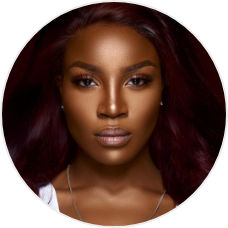
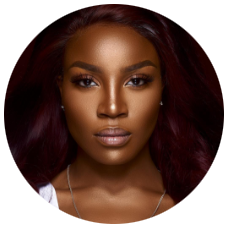
Added profile pic modal

diff --git a/src/views/Home.vue b/src/views/Home.vue
@@ -1,11 +1,54 @@
 <template>
   <div>
+    <!-- Overlay Profile Picture -->
+    <transition
+        enter-active-class="animate__animated animate__fadeIn animate__faster"
+        leave-active-class="animate__animated animate__fadeOut animate__faster"
+      >
+      <div v-if="showProfilePic" class="z-50 fixed top-0 right-0 bottom-0 flex flex-col left-0 overlay-bg text-white">
+        <div class="w-32 mx-auto mt-8 mb-24">
+          <button @click="showProfilePic = !showProfilePic" class="px-4 py-2 text-white text-xs rounded-full font-bold poppins-font bg-white text-black close-btn">
+            close image
+          </button>
+        </div>
+        <img
+          class="w-72 h-72 mx-auto block"
+          src="@/assets/img/tim_mcbaj_53652000_2255623191378916_4966133143083590398_n@2x.png"
+          alt=""
+        />
+        <div class="v-spacer flex-1"></div>
+        <div class="
+                text-center
+                flex
+                justify-center
+                brand-gray
+                items-center
+                text-xs
+                poppins-font
+                my-5
+              "
+            >
+              <span class="flex-initial text-white poppins-font">Built for free</span>
+              <img
+                class="h-5 w-5 mx-1"
+                src="@/assets/img/logo-heart-filled.png"
+                alt=""
+              />
+              <span href="#" class="flex-initial text-white poppins-font"> on Peexoo </span>
+            </div>
+      </div>
+    </transition>
     <!-- Banner Image -->
     <div class="rounded-md bg-gray-600 h-32 mx-3 banner-image">.</div>
 
     <!-- Profile Sidebar -->
     <div class="flex mx-10">
-      <profile-sidebar @on-hidden="hideSidebar" :class="{'hidden': sidebarHidden, 'fixed': !sidebarHidden}" class="top-24" />
+      <transition
+        enter-active-class="animate__animated animate__fadeIn animate__faster"
+        leave-active-class="animate__animated animate__fadeOut animate__faster"
+      >
+        <profile-sidebar @on-show-profile-pic="toggleProfilePic" @on-hidden="hideSidebar" v-if="!sidebarHidden" :class="{'fixed': !sidebarHidden}" class="top-24" />
+      </transition>
       <div :class="{'ml-96' : !sidebarHidden}" class="flex-1 p-4">
         <!-- submenu -->
         <div class="block sticky submenu bg-off-white py-4 flex items-center">
@@ -86,43 +129,43 @@
         <div class="block mt-3">
           <div class="masonry-container">
             <figure>
-              <img src="https://assets.codepen.io/12005/windmill.jpg" alt="A windmill" />
+              <img class="mason-image" src="https://assets.codepen.io/12005/windmill.jpg" alt="A windmill" />
               <figcaption><a href="#">1</a></figcaption>
             </figure>
             <figure>
-              <img src="https://assets.codepen.io/12005/suspension-bridge.jpg" alt="The Clifton Suspension Bridge" />
+              <img class="mason-image" src="https://assets.codepen.io/12005/suspension-bridge.jpg" alt="The Clifton Suspension Bridge" />
               <figcaption><a href="#">2</a></figcaption>
             </figure>
             <figure>
-              <img src="https://assets.codepen.io/12005/sunset.jpg" alt="Sunset and boats" />
+              <img class="mason-image" src="https://assets.codepen.io/12005/sunset.jpg" alt="Sunset and boats" />
               <figcaption><a href="#">3</a></figcaption>
             </figure>
             <figure>
-              <img src="https://assets.codepen.io/12005/snowy.jpg" alt="a river in the snow" />
+              <img class="mason-image" src="https://assets.codepen.io/12005/snowy.jpg" alt="a river in the snow" />
               <figcaption><a href="#">4</a></figcaption>
             </figure>
             <figure>
-              <img src="https://assets.codepen.io/12005/bristol-balloons1.jpg" alt="a single checked balloon" />
+              <img class="mason-image" src="https://assets.codepen.io/12005/bristol-balloons1.jpg" alt="a single checked balloon" />
               <figcaption><a href="#">5</a></figcaption>
             </figure>
             <figure>
-              <img src="https://assets.codepen.io/12005/dog-balloon.jpg" alt="a hot air balloon shaped like a dog" />
+              <img class="mason-image" src="https://assets.codepen.io/12005/dog-balloon.jpg" alt="a hot air balloon shaped like a dog" />
               <figcaption><a href="#">6</a></figcaption>
             </figure>
             <figure>
-              <img src="https://assets.codepen.io/12005/abq-balloons.jpg" alt="View from a hot air balloon of other balloons" />
+              <img class="mason-image" src="https://assets.codepen.io/12005/abq-balloons.jpg" alt="View from a hot air balloon of other balloons" />
               <figcaption><a href="#">7</a></figcaption>
             </figure>
             <figure>
-              <img src="https://assets.codepen.io/12005/disney-balloon.jpg" alt="a balloon fairground ride" />
+              <img class="mason-image" src="https://assets.codepen.io/12005/disney-balloon.jpg" alt="a balloon fairground ride" />
               <figcaption><a href="#">8</a></figcaption>
             </figure>
             <figure>
-              <img src="https://assets.codepen.io/12005/bristol-harbor.jpg" alt="sunrise over a harbor" />
+              <img class="mason-image" src="https://assets.codepen.io/12005/bristol-harbor.jpg" alt="sunrise over a harbor" />
               <figcaption><a href="#">9</a></figcaption>
             </figure>
             <figure>
-              <img src="https://assets.codepen.io/12005/bristol-balloons2.jpg" alt="three hot air balloons in a blue sky" />
+              <img class="mason-image" src="https://assets.codepen.io/12005/bristol-balloons2.jpg" alt="three hot air balloons in a blue sky" />
               <figcaption><a href="#">10</a></figcaption>
             </figure>
             <figure>
@@ -138,6 +181,7 @@
 
 <script>
 import ProfileSidebar from '@/components/profileSidebar.vue'
+import 'animate.css'
 // @ is an alias to /src
 // import HelloWorld from '@/components/HelloWorld.vue'
 
@@ -148,13 +192,17 @@ export default {
   },
   data () {
     return {
-      sidebarHidden: false
+      sidebarHidden: false,
+      showProfilePic: false
     }
   },
   methods: {
     hideSidebar () {
       console.log('sidebar hide activated')
       this.sidebarHidden = !this.sidebarHidden
+    },
+    toggleProfilePic () {
+      this.showProfilePic = !this.showProfilePic
     }
   }
 }
@@ -192,5 +240,14 @@ figcaption {
 .masonry-container {
   column-count: 3;
   column-gap: 10px;
+}
+.mason-image {
+  @apply rounded-md
+}
+.mason-image:hover {
+  border: 1px solid #f09e28;
+}
+.close-btn {
+  background-color: rgba(255,255,255,.09);
 }
 </style>

diff --git a/src/components/profileSidebar.vue b/src/components/profileSidebar.vue
@@ -6,11 +6,13 @@
           <button @click="hideSidebar()" class="text-brand poppins-font">Hide</button>
         </div>
         <div class="text-center pb-8 px-8">
-          <img
-            class="w-24 h-24 inline-block"
-            src="@/assets/img/tim_mcbaj_53652000_2255623191378916_4966133143083590398_n.png"
-            alt=""
-          />
+          <a @click="showProfilePic()" href="#">
+            <img
+              class="w-24 h-24 inline-block"
+              src="@/assets/img/tim_mcbaj_53652000_2255623191378916_4966133143083590398_n.png"
+              alt=""
+            />
+          </a>
           <h4 class="text-2xl font-semibold mt-3 mb-1 poppins-font">
             Ekemini Mark
           </h4>
@@ -125,6 +127,9 @@ export default {
   methods: {
     hideSidebar () {
       this.$emit('on-hidden')
+    },
+    showProfilePic () {
+      this.$emit('on-show-profile-pic')
     }
   }
 }

diff --git a/src/assets/shared.css b/src/assets/shared.css
@@ -83,3 +83,7 @@
 /* .breadcrumbs li {
     list-style-type: disc;
 } */
+
+.overlay-bg {
+  background: rgba(0, 0, 0, 0.87);
+}
